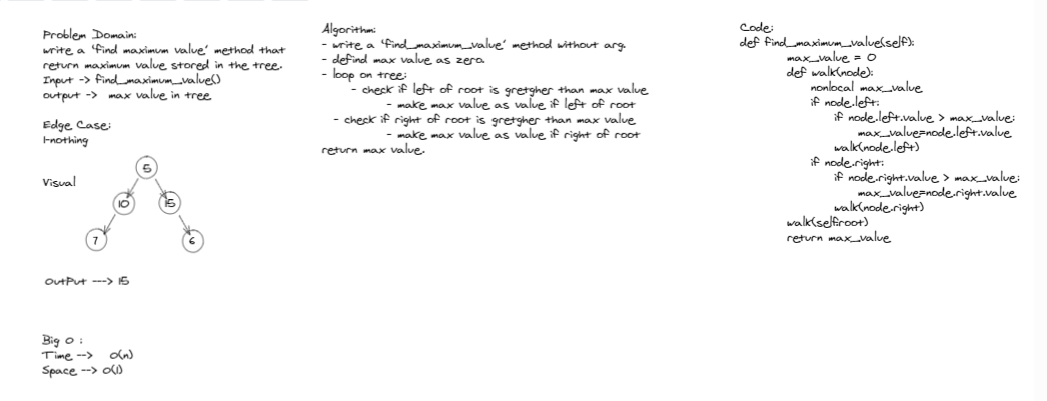
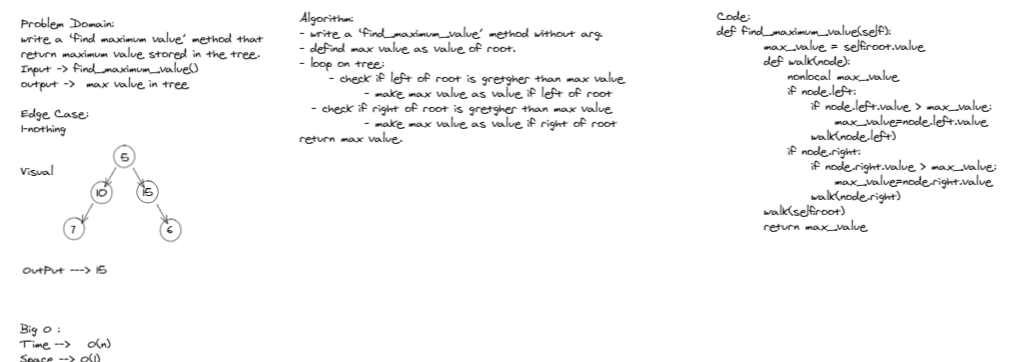
feat: fix the code that can find max value of negative values and edit the whiteboard

diff --git a/python/trees/trees.py b/python/trees/trees.py
@@ -105,7 +105,7 @@ class Binary_Tree:
         Returns: number
         Find the maximum value stored in the tree. You can assume that the values stored in the Binary Tree will be numeric.
         """
-        max_value = 0
+        max_value = self.root.value
         def walk(node):
             nonlocal max_value
             if node.left:
@@ -171,10 +171,10 @@ class Binary_Search_Tree(Binary_Tree):
 
 bt=Binary_Tree()
 bst=Binary_Search_Tree()
-bst.add(1)
-bst.add(2)
-bst.add(3)
-bst.add(4)
-bst.add(15)
-bst.add(10)
+bst.add(-50)
+bst.add(-2)
+bst.add(-3)
+bst.add(-1)
+bst.add(-15)
+bst.add(-10)
 print(bst.find_maximum_value())

diff --git a/python/trees/tree-max.md b/python/trees/tree-max.md
@@ -19,3 +19,9 @@ input --->  2
           4   5
 
 output ---> 5
+<!-- ////////////////// -->
+input ---> -20
+           / \
+        -4    -5
+
+output ---> -4
